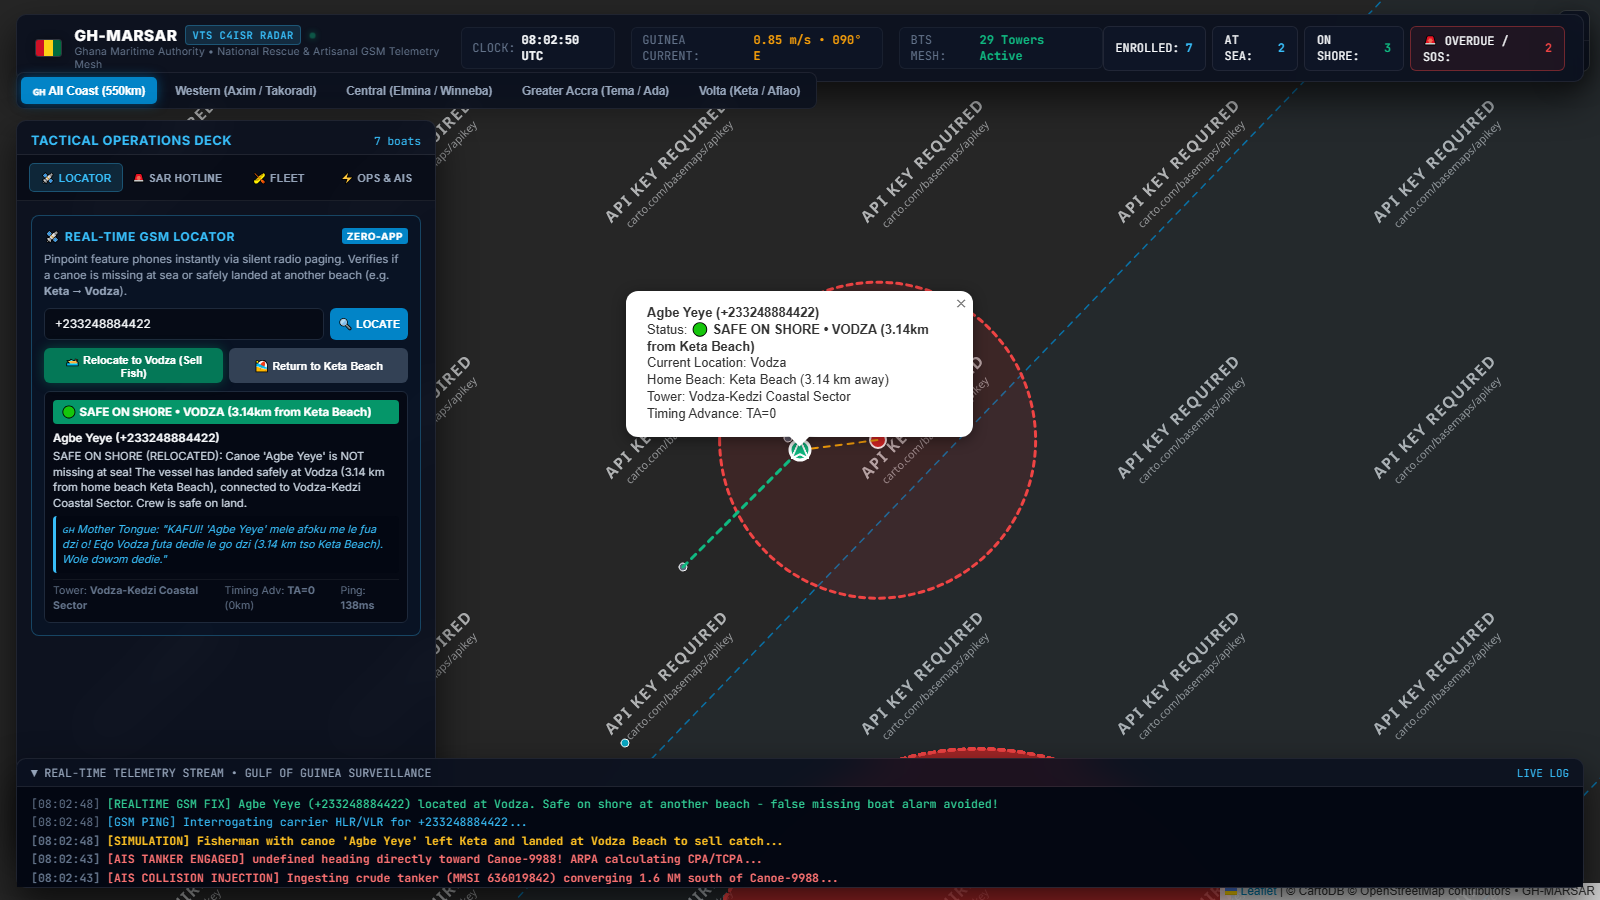
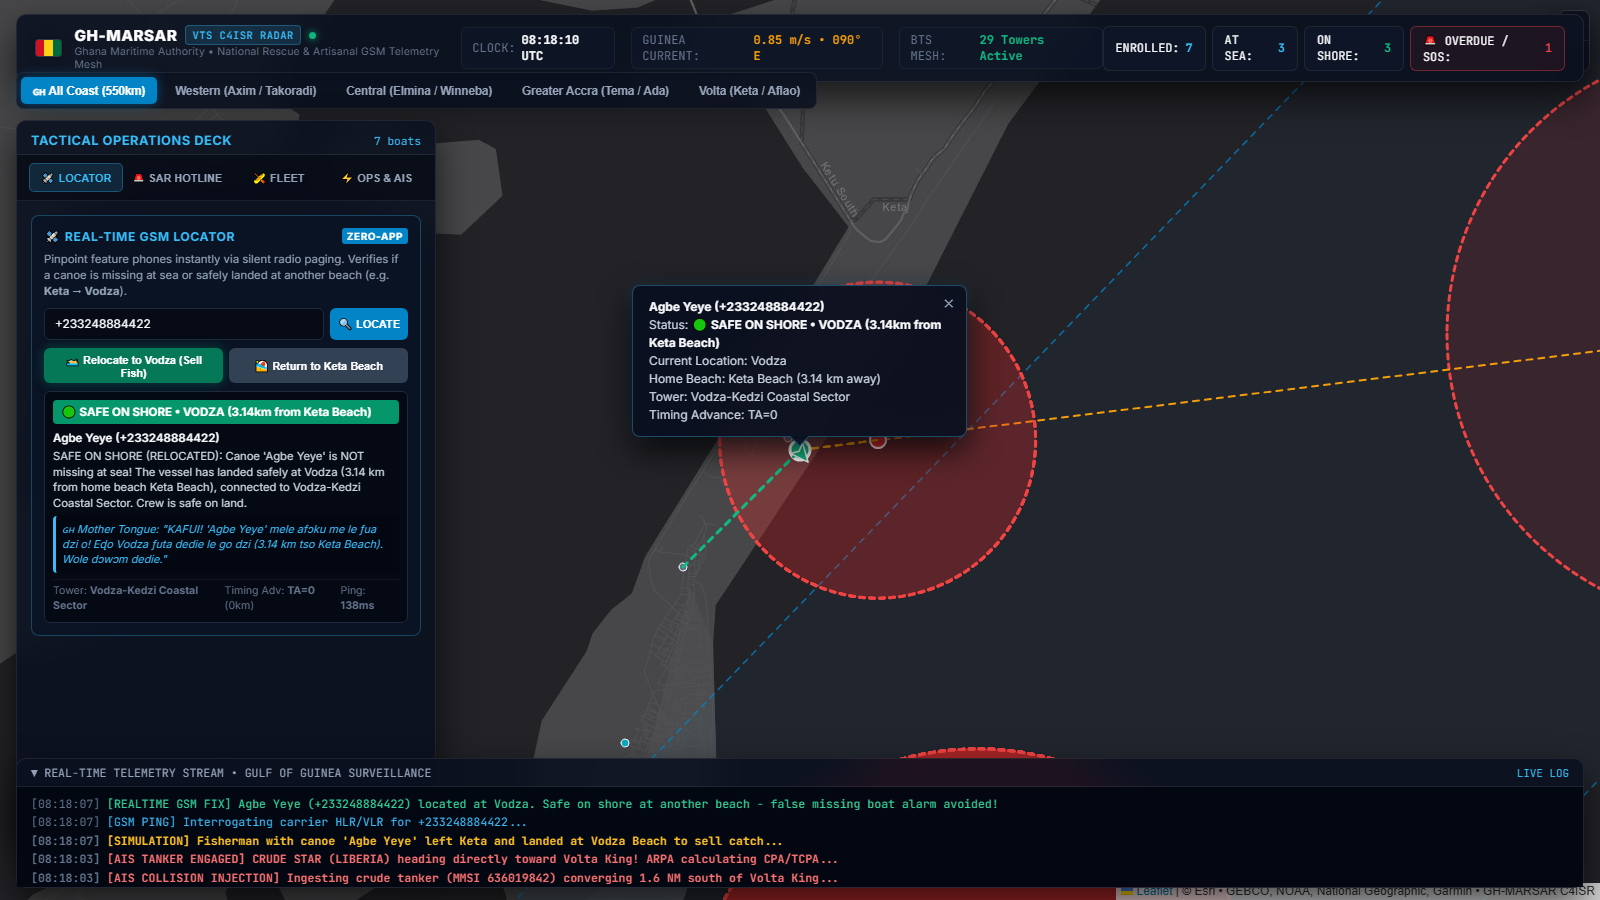
fix(ui): eliminate basemap watermarks, add /v1/ais/vessel/inject, and style dark-glass Leaflet popups

diff --git a/geomesh/server.py b/geomesh/server.py
@@ -202,6 +202,15 @@ class AISNMEARequest(BaseModel):
     raw_nmea: str = Field(..., description="Single or multi-line NMEA 0183 !AIVDM string")
 
 
+class AISVesselInjectRequest(BaseModel):
+    mmsi: int = Field(..., description="Vessel MMSI 9-digit identifier")
+    vessel_name: str = Field(default="COMMERCIAL TANKER", description="Vessel name or callsign")
+    lat: float = Field(..., ge=-90.0, le=90.0)
+    lon: float = Field(..., ge=-180.0, le=180.0)
+    speed_knots: float = Field(default=16.5, ge=0.0, description="Speed over ground in knots")
+    heading_deg: float = Field(default=350.0, ge=0.0, le=360.0, description="Heading in degrees 0..360")
+
+
 class SARDeclareRequest(BaseModel):
     phone_number: str = Field(..., description="Registered fisherman's phone number")
     reason: str = Field(default="OVERDUE_VOYAGE_MOTOR_FAILURE", description="SAR incident declaration reason")
@@ -351,6 +360,13 @@ def snapshot_fleet(request: Request) -> Dict[str, Any]:
         pred_30s = engine.predict_position(ent_id, 30.0)
         active_fences = list(engine.geofences._active_presence.get(ent_id, {}))
 
+        status_str = "UNDERWAY"
+        if ent_id.startswith("canoe-"):
+            clean_phone = ent_id.replace("canoe-", "")
+            sub = telecom_gateway.get_subscriber(clean_phone)
+            if sub:
+                status_str = sub.status.value if hasattr(sub.status, "value") else str(sub.status)
+
         vehicles.append({
             "entity_id": ent_id,
             "position": {"lat": pos.lat, "lon": pos.lon},
@@ -359,6 +375,9 @@ def snapshot_fleet(request: Request) -> Dict[str, Any]:
                 "bearing_deg": k_state.bearing_deg if k_state else 0.0,
                 "acceleration_mps2": k_state.acceleration_mps2 if k_state else 0.0,
             },
+            "speed_mps": k_state.velocity_mps if k_state else 0.0,
+            "heading_deg": k_state.bearing_deg if k_state else 0.0,
+            "status": status_str,
             "predicted_position_30s": {"lat": pred_30s.lat, "lon": pred_30s.lon} if pred_30s else None,
             "active_geofences": active_fences,
         })
@@ -751,6 +770,35 @@ def ingest_ais_nmea(req: AISNMEARequest) -> Dict[str, Any]:
             "destination": report.destination,
         }
     return {"decoded": False}
+
+
+@app.post("/v1/ais/vessel/inject", tags=["AIS Commercial Ship Telemetry"])
+def inject_ais_vessel(req: AISVesselInjectRequest) -> Dict[str, Any]:
+    """Directly inject an AIS commercial vessel into the spatial mesh for collision avoidance testing."""
+    engine = get_engine()
+    speed_mps = req.speed_knots * 0.514444
+    ping = TelemetryPing.create(
+        entity_id=f"MMSI-{req.mmsi}",
+        lat=req.lat,
+        lon=req.lon,
+        speed_mps=speed_mps,
+        heading_deg=req.heading_deg,
+        timestamp_ns=time.time_ns(),
+    )
+    alerts = engine.ingest_telemetry(ping)
+    hazards = check_collision_risks(engine, ping.entity_id)
+    return {
+        "injected": True,
+        "mmsi": req.mmsi,
+        "vessel_name": req.vessel_name,
+        "entity_id": ping.entity_id,
+        "lat": req.lat,
+        "lon": req.lon,
+        "speed_knots": req.speed_knots,
+        "heading_deg": req.heading_deg,
+        "alerts": [{"event": str(a.event), "geofence_id": a.geofence_id} for a in alerts],
+        "hazards": hazards,
+    }
 
 
 # -------------------------------------------------------------------------
@@ -1274,6 +1322,40 @@ def get_map_dashboard() -> str:
     .event-info { color: #38bdf8; }
     .event-enter { color: #34d399; }
 
+    /* Tactical Leaflet Dark Glass Popups & Controls */
+    .leaflet-popup-content-wrapper {
+      background: rgba(10, 16, 31, 0.95) !important;
+      color: var(--text-main) !important;
+      border: 1px solid rgba(56, 189, 248, 0.35) !important;
+      border-radius: 8px !important;
+      box-shadow: 0 12px 32px rgba(0, 0, 0, 0.8), 0 0 16px rgba(56, 189, 248, 0.15) !important;
+      backdrop-filter: blur(12px) !important;
+      -webkit-backdrop-filter: blur(12px) !important;
+      padding: 4px !important;
+    }
+    .leaflet-popup-content {
+      font-family: 'Inter', -apple-system, sans-serif !important;
+      font-size: 0.75rem !important;
+      line-height: 1.5 !important;
+      margin: 8px 12px !important;
+      color: #cbd5e1 !important;
+    }
+    .leaflet-popup-content b, .leaflet-popup-content strong {
+      color: #f8fafc !important;
+    }
+    .leaflet-popup-tip {
+      background: rgba(10, 16, 31, 0.95) !important;
+      border: 1px solid rgba(56, 189, 248, 0.35) !important;
+      box-shadow: none !important;
+    }
+    .leaflet-container a.leaflet-popup-close-button {
+      color: #94a3b8 !important;
+      padding: 6px 24px 0 0 !important;
+    }
+    .leaflet-container a.leaflet-popup-close-button:hover {
+      color: #38bdf8 !important;
+    }
+
     /* Tactical Leaflet Overrides */
     .leaflet-bar a {
       background-color: var(--panel-bg) !important;
@@ -1522,10 +1604,9 @@ def get_map_dashboard() -> str:
     const map = L.map('map', { zoomControl: false }).setView([5.30, -0.85], 8);
     L.control.zoom({ position: 'topright' }).addTo(map);
 
-    L.tileLayer('https://{s}.basemaps.cartocdn.com/dark_all/{z}/{x}/{y}{r}.png', {
-      attribution: '&copy; CartoDB &copy; OpenStreetMap contributors &bull; GH-MARSAR',
-      maxZoom: 19,
-      subdomains: 'abcd'
+    L.tileLayer('https://server.arcgisonline.com/ArcGIS/rest/services/Canvas/World_Dark_Gray_Base/MapServer/tile/{z}/{y}/{x}', {
+      attribution: '&copy; Esri &bull; GEBCO, NOAA, National Geographic, Garmin &bull; GH-MARSAR C4ISR',
+      maxZoom: 16
     }).addTo(map);
 
     function logEvent(msg, type = 'event-info') {
@@ -2065,6 +2146,7 @@ def get_map_dashboard() -> str:
         });
         const data = await resp.json();
         logEvent(`[AIS TANKER ENGAGED] ${data.vessel_name} heading directly toward ${activeCanoe.canoe_name}! ARPA calculating CPA/TCPA...`, 'event-cpa');
+        map.flyTo([cLat, cLon], 12);
       } else {
         logEvent('[AIS INGESTION] Ingesting Class-A crude tanker at Tema Anchorage VHF...', 'event-info');
         const sample = '!AIVDM,1,1,,A,19Eu8C002A00>aP3=kp9TWb00000,0*64';
